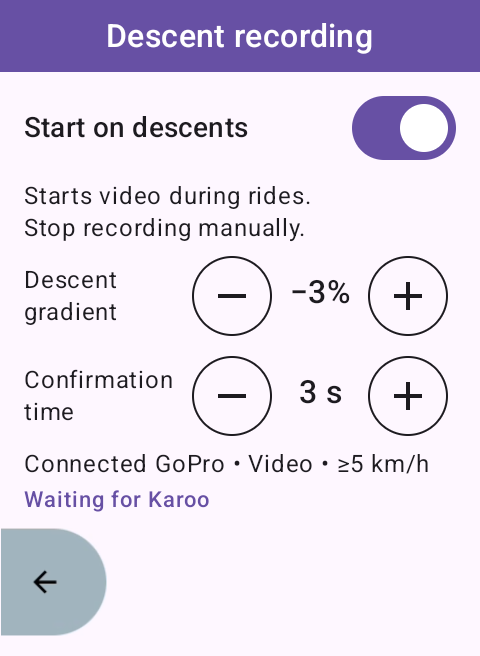
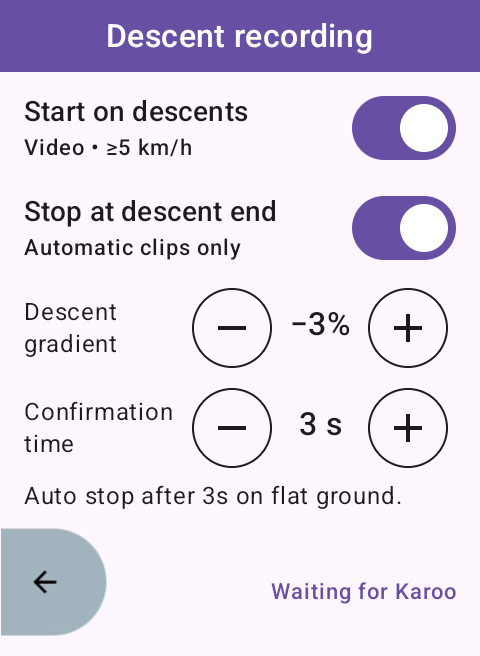
Add optional descent-end stopping to recording settings

diff --git a/app/src/androidTest/kotlin/com/karoocameracontrol/DescentUiInstrumentation.kt b/app/src/androidTest/kotlin/com/karoocameracontrol/DescentUiInstrumentation.kt
@@ -45,6 +45,7 @@ class DescentUiInstrumentation : Instrumentation() {
             val activity = startActivitySync(Intent(targetContext, MainActivity::class.java).addFlags(Intent.FLAG_ACTIVITY_NEW_TASK)) as MainActivity
             val recording = MutableStateFlow(false)
             var startGate = CompletableDeferred<Unit>()
+            var stopGate = CompletableDeferred(Unit)
             var stops = 0
             val controller =
                 CameraCommandController(
@@ -58,6 +59,7 @@ class DescentUiInstrumentation : Instrumentation() {
                     },
                     stopRecording = {
                         stops += 1
+                        stopGate.await()
                         recording.value = false
                     },
                 )
@@ -133,7 +135,29 @@ class DescentUiInstrumentation : Instrumentation() {
             waitForText("Record")
             runOnMainSync { check(stops == 2 && !recording.value) }
             capture("descent-recording-ready")
-            finish(Activity.RESULT_OK, Bundle().apply { putString("stream", "PASS: automatic start, pending Stop, mode lock, visible recording Stop and manual override\n") })
+            runOnMainSync {
+                check(controller.startAutomatically())
+            }
+            waitForText("00:12")
+            runOnMainSync {
+                stopGate = CompletableDeferred()
+                check(controller.stopAutomatically())
+            }
+            waitForIdleSync()
+            val automaticStop = clickableParent(waitForText("Stop"))
+            check(automaticStop.isEnabled)
+            runOnMainSync { check(controller.state.value.busy && controller.state.value.recordingInFlight) }
+            automaticStop.performAction(AccessibilityNodeInfo.ACTION_CLICK)
+            waitForManualStops(controller, 3L)
+            runOnMainSync { stopGate.complete(Unit) }
+            waitForText("Record")
+            runOnMainSync { check(!recording.value && controller.manualStopCount.value == 3L) }
+            runOnMainSync { check(controller.startAutomatically()) }
+            waitForText("00:12")
+            runOnMainSync { check(controller.stopAutomatically()) }
+            waitForText("Record")
+            runOnMainSync { check(!recording.value && controller.manualStopCount.value == 3L) }
+            finish(Activity.RESULT_OK, Bundle().apply { putString("stream", "PASS: automatic start/stop, pending Stop, mode lock, visible recording Stop and manual override\n") })
         } catch (e: Throwable) {
             finish(Activity.RESULT_CANCELED, Bundle().apply { putString("stream", "FAIL: ${e.stackTraceToString()}\n") })
         } finally {
@@ -149,6 +173,20 @@ class DescentUiInstrumentation : Instrumentation() {
             bitmap.compress(android.graphics.Bitmap.CompressFormat.PNG, 100, it)
         }
         bitmap.recycle()
+    }
+
+    private fun waitForManualStops(
+        controller: CameraCommandController,
+        count: Long,
+    ) {
+        val deadline = SystemClock.elapsedRealtime() + 10000
+        while (SystemClock.elapsedRealtime() < deadline) {
+            var observed = 0L
+            runOnMainSync { observed = controller.manualStopCount.value }
+            if (observed == count) return
+            SystemClock.sleep(100)
+        }
+        error("Manual override did not arrive")
     }
 
     private fun waitForText(text: String): AccessibilityNodeInfo {

diff --git a/app/src/main/kotlin/com/karoocameracontrol/screens/DescentRecordingScreen.kt b/app/src/main/kotlin/com/karoocameracontrol/screens/DescentRecordingScreen.kt
@@ -54,21 +54,32 @@ fun DescentRecordingScreen(
                 verticalAlignment = Alignment.CenterVertically,
                 horizontalArrangement = Arrangement.SpaceBetween,
             ) {
-                Text(
-                    text = "Start on descents",
-                    style = MaterialTheme.typography.titleSmall,
-                    modifier = Modifier.weight(1f),
-                )
+                Column(modifier = Modifier.weight(1f)) {
+                    Text("Start on descents", style = MaterialTheme.typography.titleSmall)
+                    Text("Video • ≥5 km/h", style = MaterialTheme.typography.labelSmall)
+                }
                 Switch(
                     checked = settings.enabled,
                     onCheckedChange = { onSettingsChanged(settings.copy(enabled = it)) },
                     modifier = Modifier.semantics { contentDescription = "Start on descents" },
                 )
             }
-            Text(
-                text = "Starts video during rides.\nStop recording manually.",
-                style = MaterialTheme.typography.bodySmall,
-            )
+            Row(
+                modifier = Modifier.fillMaxWidth(),
+                verticalAlignment = Alignment.CenterVertically,
+                horizontalArrangement = Arrangement.SpaceBetween,
+            ) {
+                Column(modifier = Modifier.weight(1f)) {
+                    Text("Stop at descent end", style = MaterialTheme.typography.titleSmall)
+                    Text("Automatic clips only", style = MaterialTheme.typography.labelSmall)
+                }
+                Switch(
+                    checked = settings.stopAtDescentEnd,
+                    enabled = settings.enabled,
+                    onCheckedChange = { onSettingsChanged(settings.copy(stopAtDescentEnd = it)) },
+                    modifier = Modifier.semantics { contentDescription = "Stop at descent end" },
+                )
+            }
             SettingStepper(
                 label = "Descent gradient",
                 value = "−${settings.gradientPercent}%",
@@ -92,15 +103,17 @@ fun DescentRecordingScreen(
                 onIncrease = { onSettingsChanged(settings.copy(confirmationSeconds = settings.confirmationSeconds + 1)) },
             )
             Text(
-                text = "Connected GoPro • Video • ≥5 km/h",
+                text = if (settings.stopAtDescentEnd) "Auto stop after 3s on flat ground." else "Stop recording manually.",
                 style = MaterialTheme.typography.bodySmall,
             )
-            Text(
-                text = status.message,
-                color = MaterialTheme.colorScheme.primary,
-                style = MaterialTheme.typography.labelSmall,
-            )
         }
+        Text(
+            text = status.message,
+            color = MaterialTheme.colorScheme.primary,
+            style = MaterialTheme.typography.labelSmall,
+            textAlign = TextAlign.End,
+            modifier = Modifier.align(Alignment.BottomEnd).padding(start = 64.dp, end = 12.dp, bottom = 24.dp),
+        )
         Image(
             painter = painterResource(R.drawable.back),
             contentDescription = "Back",

diff --git a/scripts/verify-descent-settings.py b/scripts/verify-descent-settings.py
@@ -75,24 +75,32 @@ node("text", "Descent recording")
 screenshot("descent-menu.png")
 tap(node("text", "Descent recording"))
 assert description("Start on descents").get("checked") == "false"
+assert description("Stop at descent end").get("checked") == "false"
+assert description("Stop at descent end").get("enabled") == "false"
 for label in ("Less steep gradient", "Steeper gradient", "Shorter confirmation", "Longer confirmation"):
     assert description(label).get("enabled") == "false"
-print("PASS: navigation, off by default, and disabled adjustments", flush=True)
+print("PASS: navigation, both recording options off by default, and disabled adjustments", flush=True)
 
 tap(description("Start on descents"))
 assert description("Start on descents").get("checked") == "true"
-for text in ("−3%", "3 s", "Waiting for Karoo"):
+assert description("Stop at descent end").get("enabled") == "true"
+assert description("Stop at descent end").get("checked") == "false"
+tap(description("Stop at descent end"))
+assert description("Stop at descent end").get("checked") == "true"
+for text in ("−3%", "3 s", "Auto stop after 3s on flat ground."):
     found = node("text", text)
     assert int(re.findall(r"\d+", found.get("bounds"))[-1]) <= 576, f"Clipped setting: {text}"
+assert int(re.findall(r"\d+", node("text", "Waiting for Karoo").get("bounds"))[-1]) <= 684
 screenshot("descent-settings-enabled.png")
 tap(description("Steeper gradient"))
 tap(description("Longer confirmation"))
 launch()
 open_settings()
 assert description("Start on descents").get("checked") == "true"
+assert description("Stop at descent end").get("checked") == "true"
 node("text", "−4%")
 node("text", "4 s")
-print("PASS: enabled flag, gradient, and delay persist across process restart", flush=True)
+print("PASS: both recording options, gradient, and delay persist across process restart", flush=True)
 
 for label in ("Less steep gradient", "Shorter confirmation"):
     control = description(label)
@@ -115,12 +123,19 @@ for label in ("Less steep gradient", "Shorter confirmation"):
     for _ in range(7):
         tap(control)
 tap(description("Start on descents"))
+assert description("Stop at descent end").get("enabled") == "false"
+assert description("Stop at descent end").get("checked") == "true"
 command("shell", "input", "keyevent", "KEYCODE_BACK")
 node("content-desc", "More options")
 open_settings()
 assert description("Start on descents").get("checked") == "false"
+assert description("Stop at descent end").get("checked") == "true"
 node("text", "−3%")
 node("text", "3 s")
+tap(description("Start on descents"))
+tap(description("Stop at descent end"))
+assert description("Stop at descent end").get("checked") == "false"
+tap(description("Start on descents"))
 tap(description("Back"))
 node("content-desc", "More options")
 print("PASS: system Back, in-app Back, and restored default settings", flush=True)

diff --git a/docs/descent-recording.md b/docs/descent-recording.md
@@ -1,4 +1,4 @@
-# Recording when a descent starts
+# Descent recording
 
 ## Implementation plan
 
@@ -11,6 +11,8 @@
 3. Build and check the changed screens on the 480×800 Karoo Android emulator,
    capture app-only screenshots, run formatting and validation, then commit,
    push, and open a pull request.
+4. Add optional stops at descent end with ownership of automatic clips, then
+   verify both opt-ins, recording controls, and persistence on the emulator.
 
 ## Behaviour
 
@@ -96,8 +98,12 @@ python3 scripts/verify-descent-settings.py emulator-5554
 The instrumentation uses an isolated fake camera to exercise the production
 connected screen on a real Android emulator. It checks pending and confirmed
 automatic starts, disabled mode controls, visible Stop, and manual override.
+It also checks a completed automatic stop and manual override while an
+automatic stop is pending.
+
 The settings script requires the defaults in an isolated app install, checks
-persistence across process restart and adjustment boundaries, captures the
+persistence across process restart, adjustment boundaries, and the two
+separate opt-ins (both off by default). It captures the
 changed menu/settings screens, and restores defaults. It refuses physical
 devices. The final screenshots are 480×656 with Android system bars removed.
 

diff --git a/docs/recording-controls.md b/docs/recording-controls.md
@@ -17,3 +17,9 @@ the screen is reopened, and failures appear in a snackbar. The timer and
 Record/Stop button remain fixed above Back on the Karoo screen; other camera
 details scroll when needed. A manual Stop suppresses automatic starts until
 the next descent.
+
+An optional **Stop at descent end** setting stops only clips started by descent
+automation, after confirmed flatter terrain or ride finish. It is off by
+default. Automatic stops use the same acknowledgement and progress path;
+manual Stop remains available while an automatic stop is pending. Manual clips
+and recordings found after reconnect are never stopped by this option.

diff --git a/README.md b/README.md
@@ -8,7 +8,7 @@ This is an extension to control sports action cameras using Hammerhead Karoo cyc
 
 - Connect and manage multiple GoPro cameras.
 - Start and stop recording and monitor recording time.
-- Optionally start video recording when a descent begins; [configure descent recording](docs/descent-recording.md).
+- Optionally start video recording when a descent begins and stop at descent end; [configure descent recording](docs/descent-recording.md).
 - Change camera modes (Video, Photo, Timelapse).
 - Select specific presets within each mode.
 - View battery life, remaining storage space.
